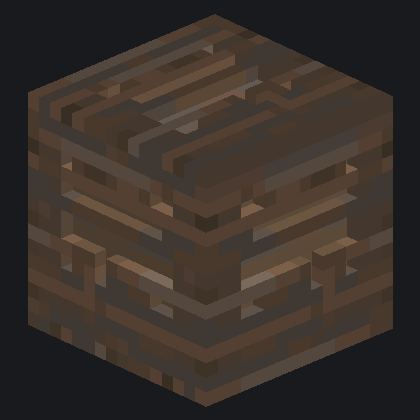
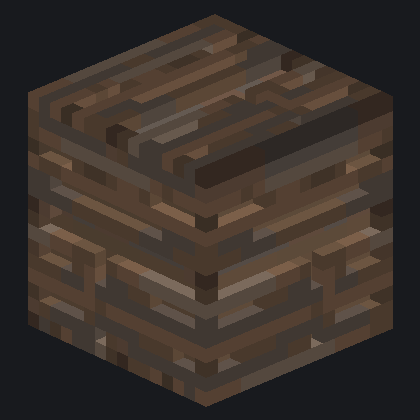
Plank seams run to the block edge; bake-floor plugs keep the painted colour
Once the planks showed their own colours, the renders showed the two bark
bugs again on every texture bake:
(b) the fixed 3-texel uncarved rim: board seams stopped 3 texels short of
    each block edge, so a wall read as a grid of framed glyph tiles. The
    rim is now the model's own deepest carve (OWN_SHELL_MODELS gains
    planks oak/spruce, cobble, crafting, bookshelf; the furnace carves 3
    deep and is unchanged). The no-leak proof only needs D >= the deepest
    carve, and main() still asserts every air cell is within D of exactly
    one face.
(a) the bake floor painted every plug the interior fill (the node's mean
    colour): a flat mean-coloured patch wherever a groove reached the rim.
    A plug now takes the face's ORIGINAL painted texel colour (not delit:
    no recess is left to shadow it) -- PAINTED_PLUG_MODELS, opt-in, the
    six blocks above. Shapes only gain air inside the old rim; palettes
    grow by the painted colours (largest: bookshelf, 48 entries).
Visible fill-coloured texels on the outer faces (instrument: first solid
voxel per column) drop from 18-66 per face to 0 (furnace: 8 at the
firebox, whose fire texels keep the fill). Cabin brightness -0.2..-3.6 %
vs the previous commit.

diff --git a/util/claude_models.py b/util/claude_models.py
@@ -247,6 +247,11 @@ def bake_from_tiles(name, tiles, maxdepth=3, emissive_faces=(),
         return pindex[key]
 
     v = np.full((N, N, N), pi(fill), dtype=np.uint16)
+    # what each carved cell would show if the bake floor plugs it: the
+    # texel's PAINTED colour (see PAINTED_PLUG_MODELS); last face wins, as
+    # for the written voxels
+    plug_on = np.zeros((N, N, N), dtype=bool)
+    plug_rgb = np.zeros((N, N, N, 3), dtype=np.float32)
     # 'side' shorthand expands to the four lateral faces
     faces = {}
     for face, img in imgs.items():
@@ -335,9 +340,13 @@ def bake_from_tiles(name, tiles, maxdepth=3, emissive_faces=(),
                 for dd in range(d):
                     x, y, z = _face_map(face, u, vv, dd)
                     v[z, y, x] = 0
+                    plug_on[z, y, x] = not is_fire
+                    plug_rgb[z, y, x] = img[vv, u]
                 x, y, z = _face_map(face, u, vv, d)
                 v[z, y, x] = pi((int(r), int(g), int(b)),
                                 emit_level if is_fire else 0)
+                plug_on[z, y, x] = False
+    PLUG_PAINT[name] = (plug_on, plug_rgb)
     return name, pal, v
 
 
@@ -687,7 +696,29 @@ def shell_count(n=N, depth=SHELL):
 # keeps a 1-2 texel rim instead of 3, so its grooves get 14x14 or 12x12 of
 # each face instead of 10x10 (the 3-texel frame is what boxed every log face
 # into a panel). Opt-in per model: changing it changes that block's look.
-OWN_SHELL_MODELS = {"log_oak_baked"}
+OWN_SHELL_MODELS = {"log_oak_baked",
+                    # 2026-10-09 (blockcolour): the same frame on every
+                    # texture bake carved shallower than 3 -- plank board
+                    # seams stopped 3 texels short of each block edge, so
+                    # a wall read as a grid of framed glyph tiles. Furnace
+                    # carves 3 deep: no change.
+                    "planks_oak_baked", "planks_spruce_baked",
+                    "cobble_baked", "crafting_baked", "bookshelf_baked"}
+
+# PLUG COLOUR = THE TEXEL'S PAINTED COLOUR (2026-10-09, blockcolour). A cell
+# the bake floor plugs was a carved texel: _delight had lifted its colour
+# because geometry was going to shadow it, and then the plug made it flat
+# again and painted it the INTERIOR FILL (the node's mean colour). Once a
+# model's fine hits show its own colours ("colour": "palette"), that is a
+# flat mean-coloured patch wherever a groove reaches a block edge (the
+# bark's seam bands were the same cause). A flat texel should look as the
+# artist painted it, so a plug takes the face's ORIGINAL texel colour (not
+# delit: there is no recess left to shadow it). Opt-in per model; the shape
+# (and so the no-leak proof) is untouched, only the plug's palette entry.
+PAINTED_PLUG_MODELS = {"planks_oak_baked", "planks_spruce_baked",
+                       "cobble_baked", "crafting_baked", "bookshelf_baked",
+                       "furnace_baked"}
+PLUG_PAINT = {}     # name -> (mask, rgb), filled by bake_from_tiles
 
 
 def carve_depth(v):
@@ -718,6 +749,16 @@ def enforce_opaque(name, pal, v):
     plugs = [(int(x), int(y), int(z))
              for z, y, x in np.argwhere(bad)]
     v[bad] = mat
+    if name in PAINTED_PLUG_MODELS and name in PLUG_PAINT:
+        on, rgb = PLUG_PAINT[name]
+        index = {(tuple(p["rgb"]), p["emit"]): i
+                 for i, p in enumerate(pal) if p}
+        for z, y, x in np.argwhere(bad & on):
+            key = (tuple(int(c) for c in rgb[z, y, x]), 0)
+            if key not in index:
+                pal.append(dict(rgb=list(key[0]), emit=0))
+                index[key] = len(pal) - 1
+            v[z, y, x] = index[key]
     after = through_lines(v)
     return v, dict(before=len(before), after=len(after), plugs=plugs,
                    material=mat, depth=depth)
